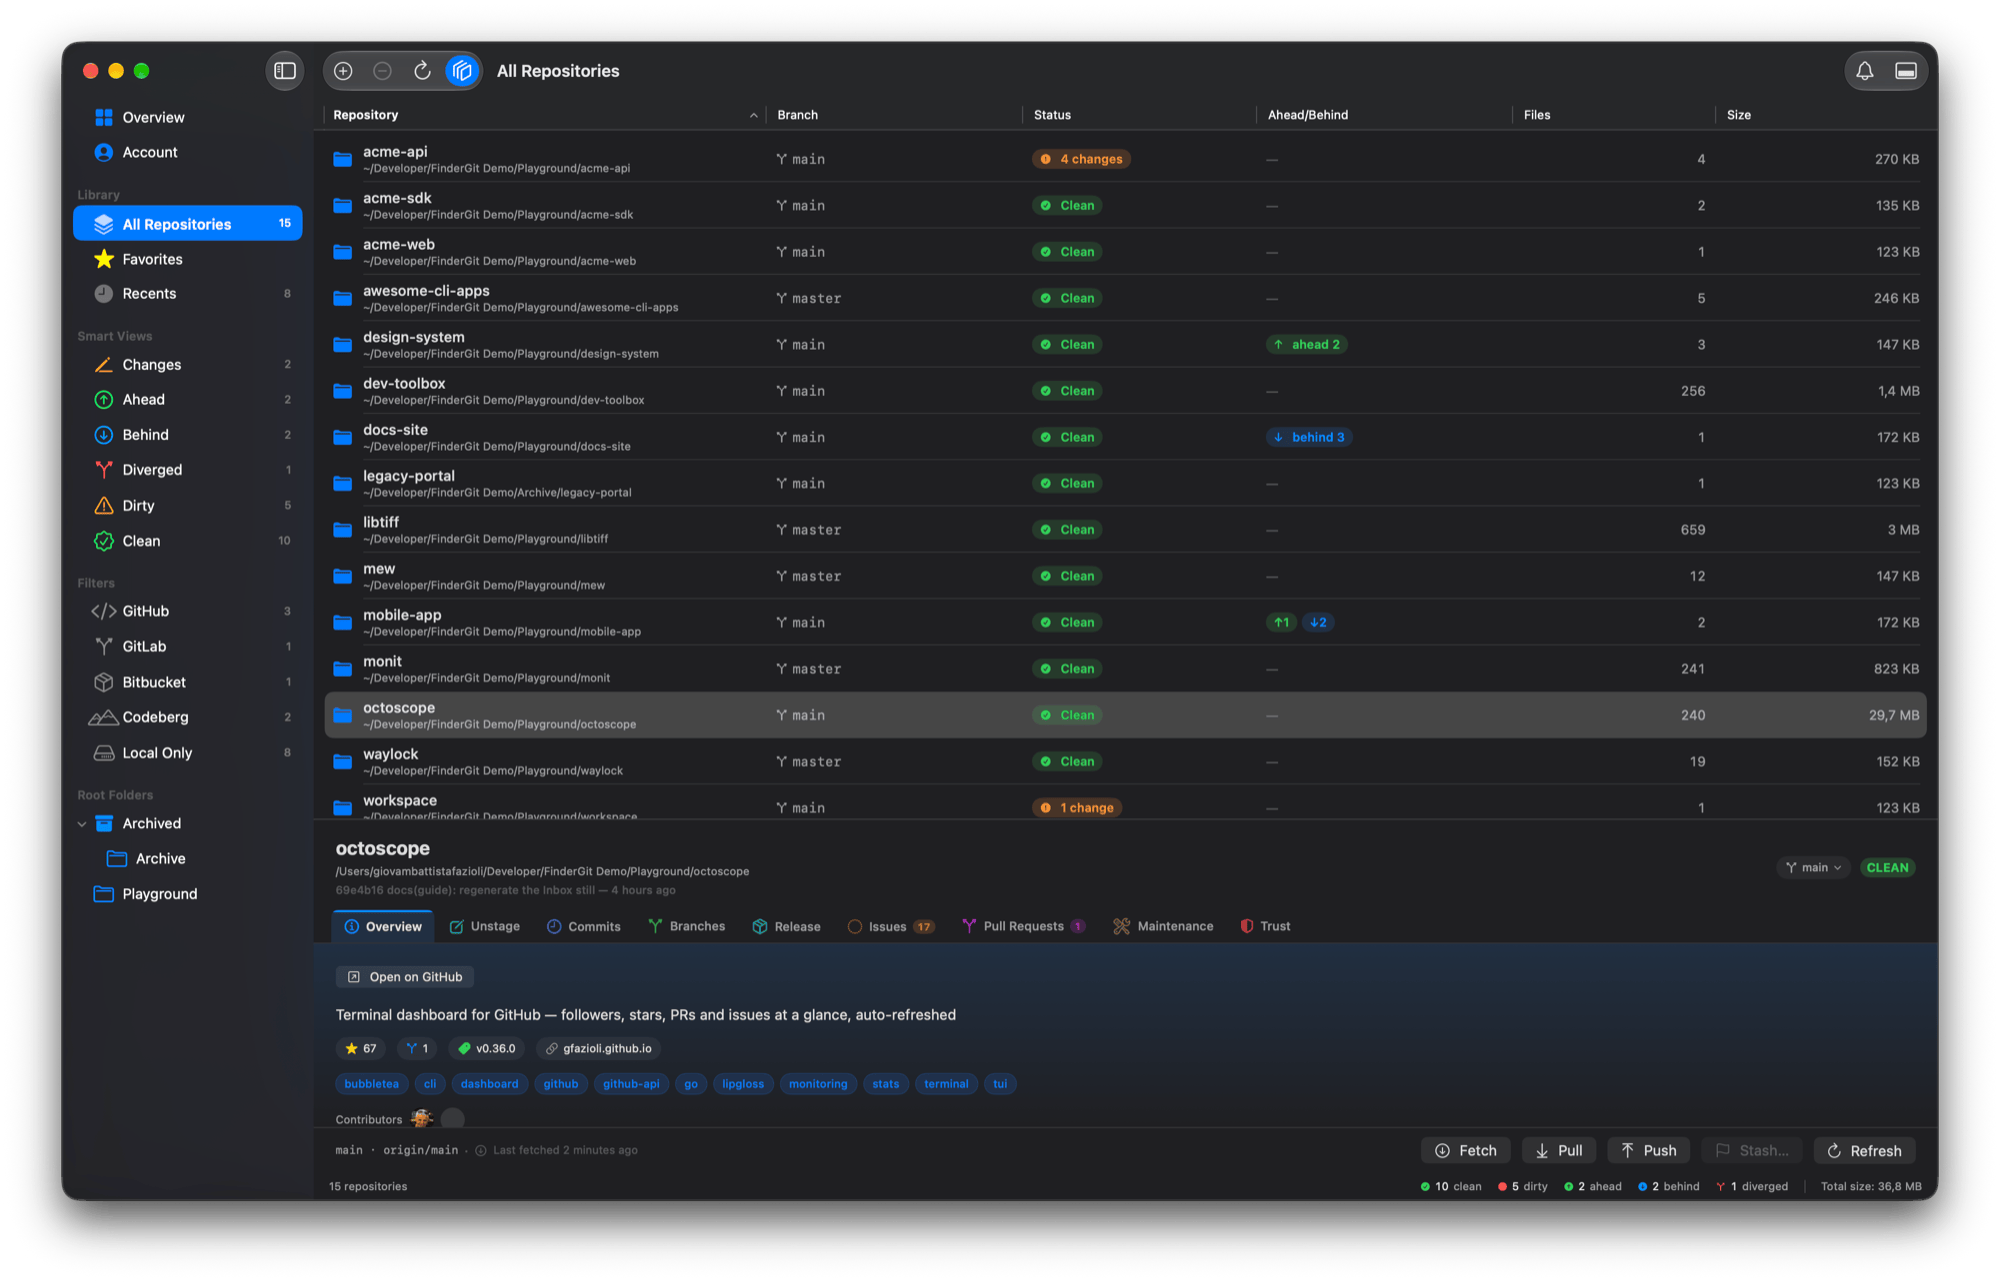
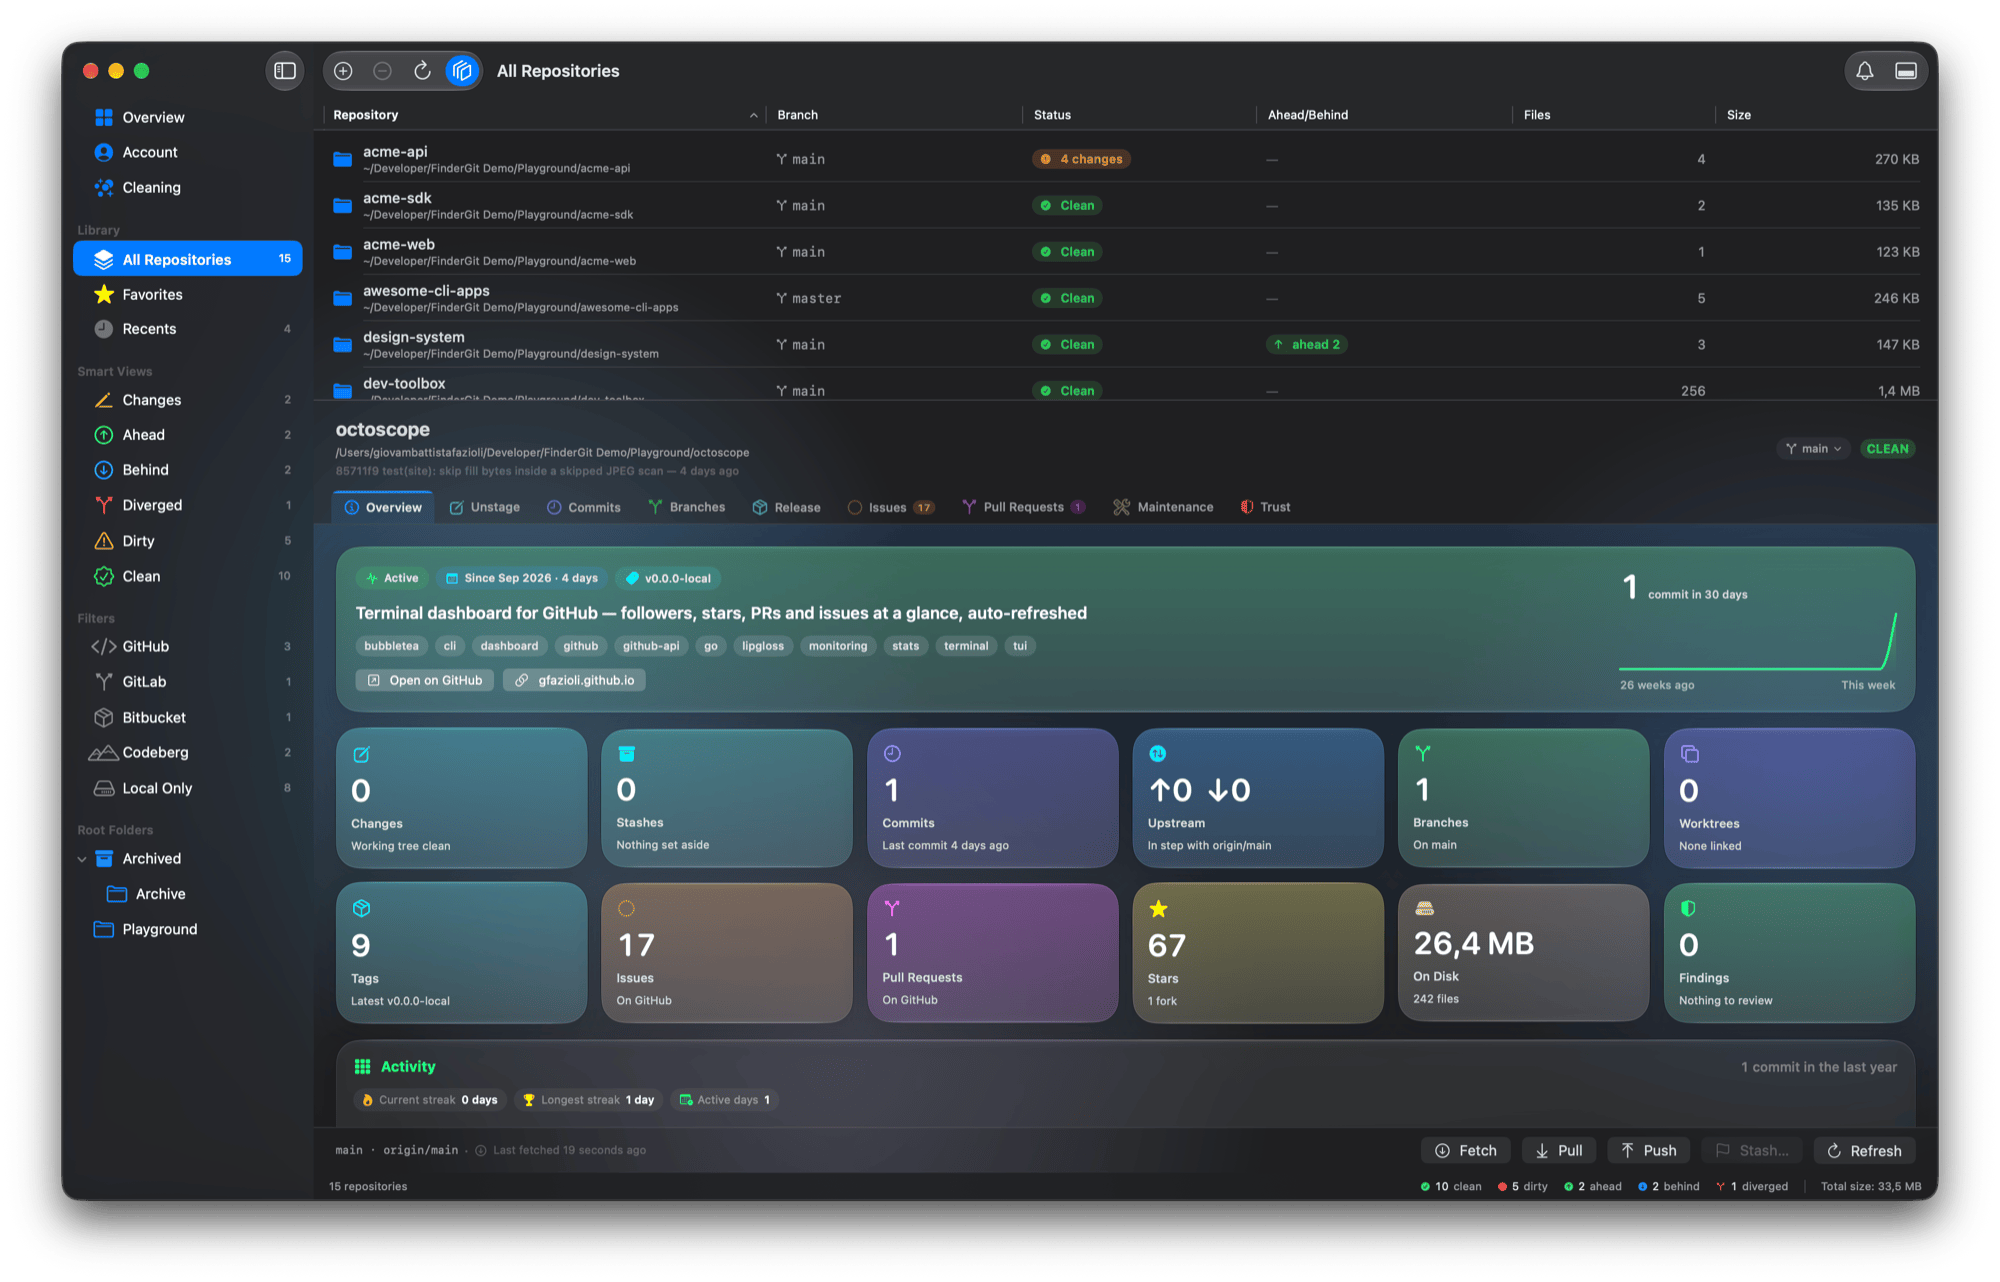
feat(sparkle): publish FinderGit v0.45.0 to appcast

diff --git a/public/release-notes/0.45.0.html b/public/release-notes/0.45.0.html
@@ -1,0 +1,111 @@
+<!DOCTYPE html>
+<html lang="en">
+<head>
+<meta charset="utf-8">
+<meta name="viewport" content="width=device-width, initial-scale=1">
+<title>FinderGit 0.45.0 — Release Notes</title>
+<style>
+  :root {
+    color-scheme: light dark;
+    --bg: #ffffff;
+    --fg: #1a1a1a;
+    --accent: #007aff;
+    --muted: #6b6b73;
+    --code-bg: #f4f4f5;
+    --border: rgba(0,0,0,0.12);
+  }
+  @media (prefers-color-scheme: dark) {
+    :root {
+      --bg: #1c1c1e;
+      --fg: #ececec;
+      --muted: #9c9ca5;
+      --code-bg: #2c2c2e;
+      --border: rgba(255,255,255,0.14);
+    }
+  }
+  * { box-sizing: border-box; }
+  body {
+    font: 14px/1.55 -apple-system, BlinkMacSystemFont, "SF Pro Text", "Helvetica Neue", sans-serif;
+    color: var(--fg);
+    background: var(--bg);
+    margin: 0 auto;
+    padding: 20px 24px 40px;
+    max-width: 720px;
+  }
+  header.page-header {
+    border-bottom: 1px solid var(--border);
+    padding-bottom: 14px;
+    margin-bottom: 22px;
+  }
+  header.page-header h1 { font-size: 1.7em; margin: 0 0 4px; letter-spacing: -0.02em; }
+  header.page-header .subtitle { color: var(--muted); margin: 0; font-size: 0.92em; }
+  h1, h2, h3, h4 { letter-spacing: -0.01em; margin: 1.5em 0 0.5em; }
+  h1 { font-size: 1.4em; }
+  h2 { font-size: 1.2em; }
+  h3 { font-size: 1em; }
+  a { color: var(--accent); }
+  hr { border: 0; border-top: 1px solid var(--border); margin: 22px 0; }
+  ul, ol { padding-left: 1.4em; }
+  li { margin: 4px 0; }
+  code {
+    font: 0.9em ui-monospace, "SF Mono", Menlo, Consolas, monospace;
+    background: var(--code-bg);
+    padding: 1px 5px;
+    border-radius: 3px;
+  }
+  pre {
+    background: var(--code-bg);
+    padding: 12px 14px;
+    border-radius: 6px;
+    overflow-x: auto;
+    font-size: 0.88em;
+  }
+  pre code { background: transparent; padding: 0; font-size: 1em; }
+  blockquote {
+    margin: 12px 0;
+    padding-left: 12px;
+    border-left: 3px solid var(--border);
+    color: var(--muted);
+  }
+  table { border-collapse: collapse; width: 100%; margin: 12px 0; font-size: 0.95em; }
+  th, td { border: 1px solid var(--border); padding: 6px 10px; text-align: left; }
+  th { background: var(--code-bg); }
+  img { max-width: 100%; }
+</style>
+</head>
+<body>
+<header class="page-header">
+  <h1>FinderGit 0.45.0</h1>
+  <p class="subtitle">Release notes</p>
+</header>
+<p>FinderGit 0.45.0 — The Overview tab becomes a dashboard of the repository</p>
+<h2>Highlights</h2>
+<ul>
+<li><strong>A dashboard for every repository.</strong> Select one and the Overview tab now tells its story at a glance, where it used to show a description and a few avatars. Most of it is read from the repository itself, so a local-only repository gets it too.</li>
+<li><strong>Its pulse at the top.</strong> How alive it is (<em>Active</em>, <em>Steady</em>, <em>Quiet</em> or <em>Dormant</em>, from its newest commit), when its history began, its latest tag and how many commits sit on top of it. The headline is the forge's description or, when there is none, the opening sentence of the README. Beside it, the commits of the last 30 days over a 26-week line.</li>
+<li><strong>A tile for every count, and each one is a door.</strong> Changes, Stashes, Commits, Upstream, Branches, Worktrees, Tags, Issues, Pull Requests, Stars, On Disk and Findings. Each tile wears the color and icon of its tab and opens it with a click.</li>
+<li><strong>A year of activity.</strong> The last year as a calendar, one square per day, with the current and the longest streak; hover a day to read it. Beside it, the same commits by weekday and hour, with the busiest day and the peak hour.</li>
+<li><strong>What it is made of.</strong> The languages by size, and whether the repository carries a README, a license, a <code class="notranslate">.gitignore</code>, a contributing guide, a security policy and CI.</li>
+<li><strong>The latest commits and releases</strong> as two timelines, with how often a release ships and how many commits are still unreleased. A row opens the Commits or Release tab.</li>
+<li><strong>Who wrote it.</strong> A leaderboard with bars when more than one person did; a solo project is named at the top instead.</li>
+<li><strong>It moves like the rest of the app.</strong> The cards land one after another and the charts draw themselves when you open the tab and each time you refresh it. Nothing moves on its own after that, and with Reduce Motion on everything is simply there.</li>
+<li><strong>It keeps up.</strong> A commit, a pull, a checkout or a new tag updates it, and the calendar moves on to the next day at midnight.</li>
+</ul>
+<h2>Under the hood</h2>
+<ul>
+<li><strong>One local read per HEAD.</strong> <code class="notranslate">rev-list --count</code>, the root commits, <code class="notranslate">log --since</code> for the calendar, <code class="notranslate">shortlog -sne</code> for the authors, <code class="notranslate">ls-tree -r -l -z</code> for the languages and the essentials, <code class="notranslate">describe --tags</code> and the README, run side by side off the main thread and cached per HEAD and per day.</li>
+<li><strong>Calendar days are calendar days.</strong> Days are counted with the calendar rather than in 86,400-second units, so a commit just after midnight stays on its day across a daylight-saving change.</li>
+<li><strong>Contributors from history.</strong> The count comes from local history: GitHub's list is a single page and leaves out authors without an account, so it supplies the faces only when it covers everyone. A GitHub noreply address gives the login, and with it the avatar, without an API call.</li>
+<li><strong>Languages the way GitHub draws them.</strong> Names and colors follow the forge's own language bar; data files, vendored folders and minified bundles are left out.</li>
+<li><strong>No storm in the Fleet view.</strong> A short pause before any git read means arrowing through a list of repositories starts nothing for the ones you pass.</li>
+</ul>
+<h2>Install</h2>
+<ol>
+<li>Download <code class="notranslate">FinderGit-0.45.0.dmg</code></li>
+<li>Open the DMG and drag FinderGit into Applications</li>
+<li>Launch normally — the app is signed with an Apple Developer ID and notarized by Apple</li>
+</ol>
+<h2>Requirements</h2>
+<p>macOS 15 or later. Universal binary (Apple Silicon and Intel).</p>
+</body>
+</html>

diff --git a/config/index.ts b/config/index.ts
@@ -91,13 +91,13 @@ export default {
     defaultLanguage: 'en',
   },
   app: {
-    version: '0.44.0',
+    version: '0.45.0',
     // Publication date of `version`, UTC, written by release.sh next to the
     // version itself. It is the OFFLINE FALLBACK for the homepage release
     // strip: the live date and the release count come from the GitHub
     // releases API, and this is what the strip shows when that call is
     // rate-limited or down. Also the JSON-LD `dateModified`.
-    releaseDate: '2026-10-02',
+    releaseDate: '2026-10-04',
     minMacOS: '15.0',
     downloadUrl: 'https://github.com/gfazioli/findergit-website/releases/latest',
   },
